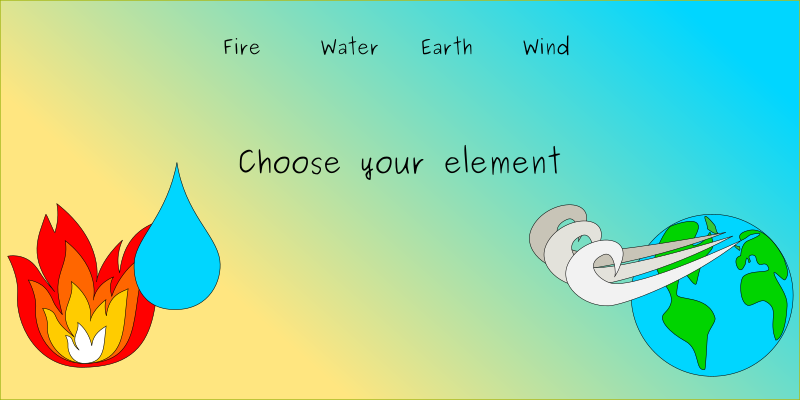
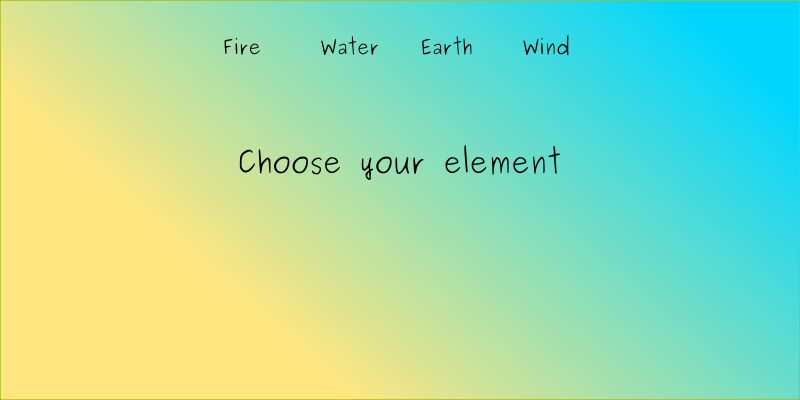
display menu update

Changed region(s): [[0.6562, 0.51, 1.0, 0.96], [0.0, 0.42, 0.2812, 0.93]]

diff --git a/Element.py b/Element.py
@@ -3,34 +3,42 @@ import pygame as pg
 class Element:
 
     @staticmethod
-    def get_fire_image():
+    def get_fire_image(flag):
+        if flag:
+            return 'img/h_fire.png'
         return 'img/fire.png'
 
     @staticmethod
-    def get_wind_image():
+    def get_wind_image(flag):
+        if flag:
+            return 'img/h_wind.png'
         return 'img/wind.png'
     
     @staticmethod
-    def get_earth_image():
+    def get_earth_image(flag):
+        if flag:
+            return 'img/h_earth.png'
         return 'img/earth.png'
     
     @staticmethod
-    def get_water_image():
+    def get_water_image(flag):
+        if flag:
+            return 'img/h_water.png'
         return 'img/water.png'
 
     @staticmethod
-    def get_element_image(element, r):
+    def get_element_image(element, r, flag):
         if element == "fire":
-            image = pg.image.load(Element.get_fire_image())
+            image = pg.image.load(Element.get_fire_image(flag))
 
         if element == "wind":
-            image = pg.image.load(Element.get_wind_image())
+            image = pg.image.load(Element.get_wind_image(flag))
 
         if element == "earth":
-            image = pg.image.load(Element.get_earth_image())
+            image = pg.image.load(Element.get_earth_image(flag))
         
         if element == "water":
-            image = pg.image.load(Element.get_water_image())
+            image = pg.image.load(Element.get_water_image(flag))
 
         image = pg.transform.scale(image,(int(r*2),int(r*2)))
         return image
@@ -39,11 +47,13 @@ class Element:
 
     def __init__(self, window, x, y, r, element):
         self.window = window
+        self.flag = False
         self.x = x
         self.y = y
-        self.r=r*0.5
+        self.r=r
         self.element = element
-        self.image = Element.get_element_image(self.element, self.r)
+        self.image = Element.get_element_image(self.element, self.r, self.flag )
     
     def display(self):
+        self.image = Element.get_element_image(self.element, self.r, self.flag )
         self.window.blit(self.image, (self.x - self.r, self.y - self.r))

diff --git a/menu.py b/menu.py
@@ -45,12 +45,19 @@ class Menu:
             self.buttons[i].display()
         self.start_button.display()
 
-    def is_start_button_hovered(self):
+    def is_button_hovered(self):
         x, y = pygame.mouse.get_pos()
         if (self.start_button.is_hover(x, y)):
             self.start_button.image =pygame.image.load(Button.get_hover_image())
         else: 
             self.start_button.image = pygame.image.load(Button.get_image())
+        for i, button in enumerate(self.buttons):
+            flag = button.is_hover(x, y)
+            #print(flag,button.represent_value)
+            if button.is_checked:
+                self.background.is_hover_flag(button.represent_value,True)
+            else:
+                self.background.is_hover_flag(button.represent_value,flag)
 
 
 
@@ -75,7 +82,8 @@ class Menu:
 
             self.window.fill((255, 255, 255))
             self.background.display()
-            self.is_start_button_hovered()
+            self.is_button_hovered()
+            self.background.display()
             self.buttons_display()
             self.input_box1.update()
             self.input_box1.draw(self.window)

diff --git a/Background.py b/Background.py
@@ -1,4 +1,5 @@
 import pygame as pg
+from Element import Element
 
 class Background:
 
@@ -14,6 +15,24 @@ class Background:
         self.height = height
         self.image = pg.image.load(Background.get_background_image())
         self.image = pg.transform.scale(self.image, (width, height))
+        self.fire = Element(window,100,300,100,"fire")
+        self.water = Element(window,180,240,100,"water")
+        self.earth = Element(window,700,300,100,"earth")
+        self.wind = Element(window,620,240,100,"wind")
+
+    def is_hover_flag(self, element,flag):
+        if element == "fire":
+            self.fire.flag = flag
+        if element == "water":
+            self.water.flag = flag
+        if element == "earth":
+            self.earth.flag = flag
+        if element == "wind":
+            self.wind.flag = flag
     
     def display(self):
         self.window.blit(self.image, (self.x, self.y))
+        self.fire.display()
+        self.earth.display()
+        self.water.display()
+        self.wind.display()

diff --git a/app.py b/app.py
@@ -104,7 +104,7 @@ while True:
         y = players[p].ball.middle.y * SCALE - pos_y * SCALE + WINDOW_HEIGHT / 2
         r = players[p].ball.radius * SCALE
         pygame.draw.circle(window, players[p].color, (int(x), int(y)), int(r))
-        element = Element(window,x,y,r,players[p].elem)
+        element = Element(window,x,y,r*0.5,players[p].elem)
         element.display()
         #players[p].element
 
